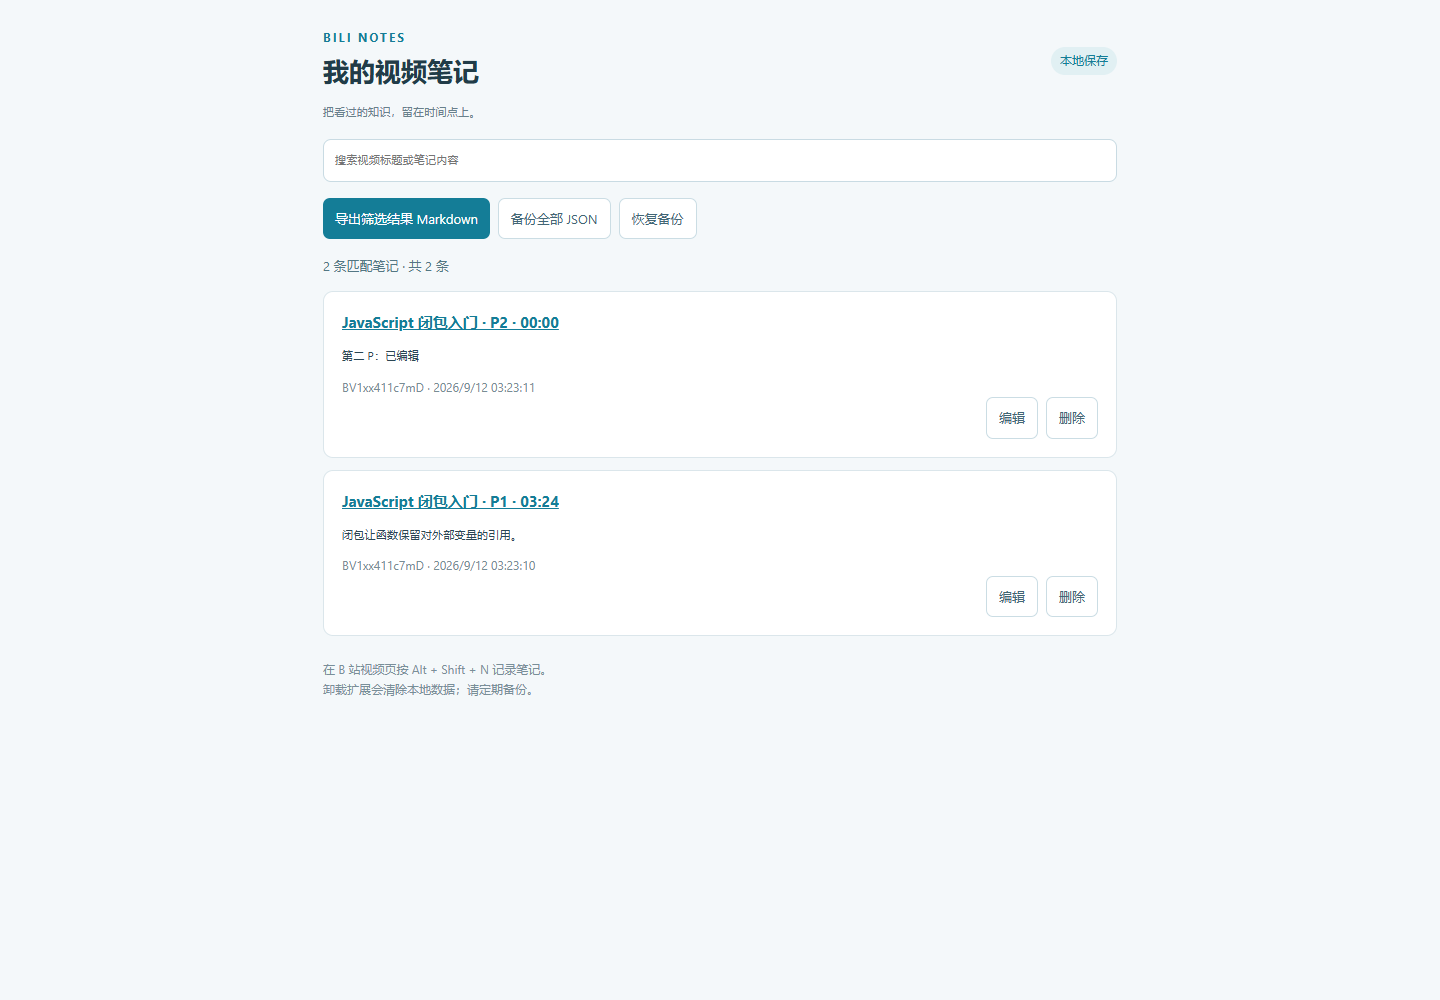
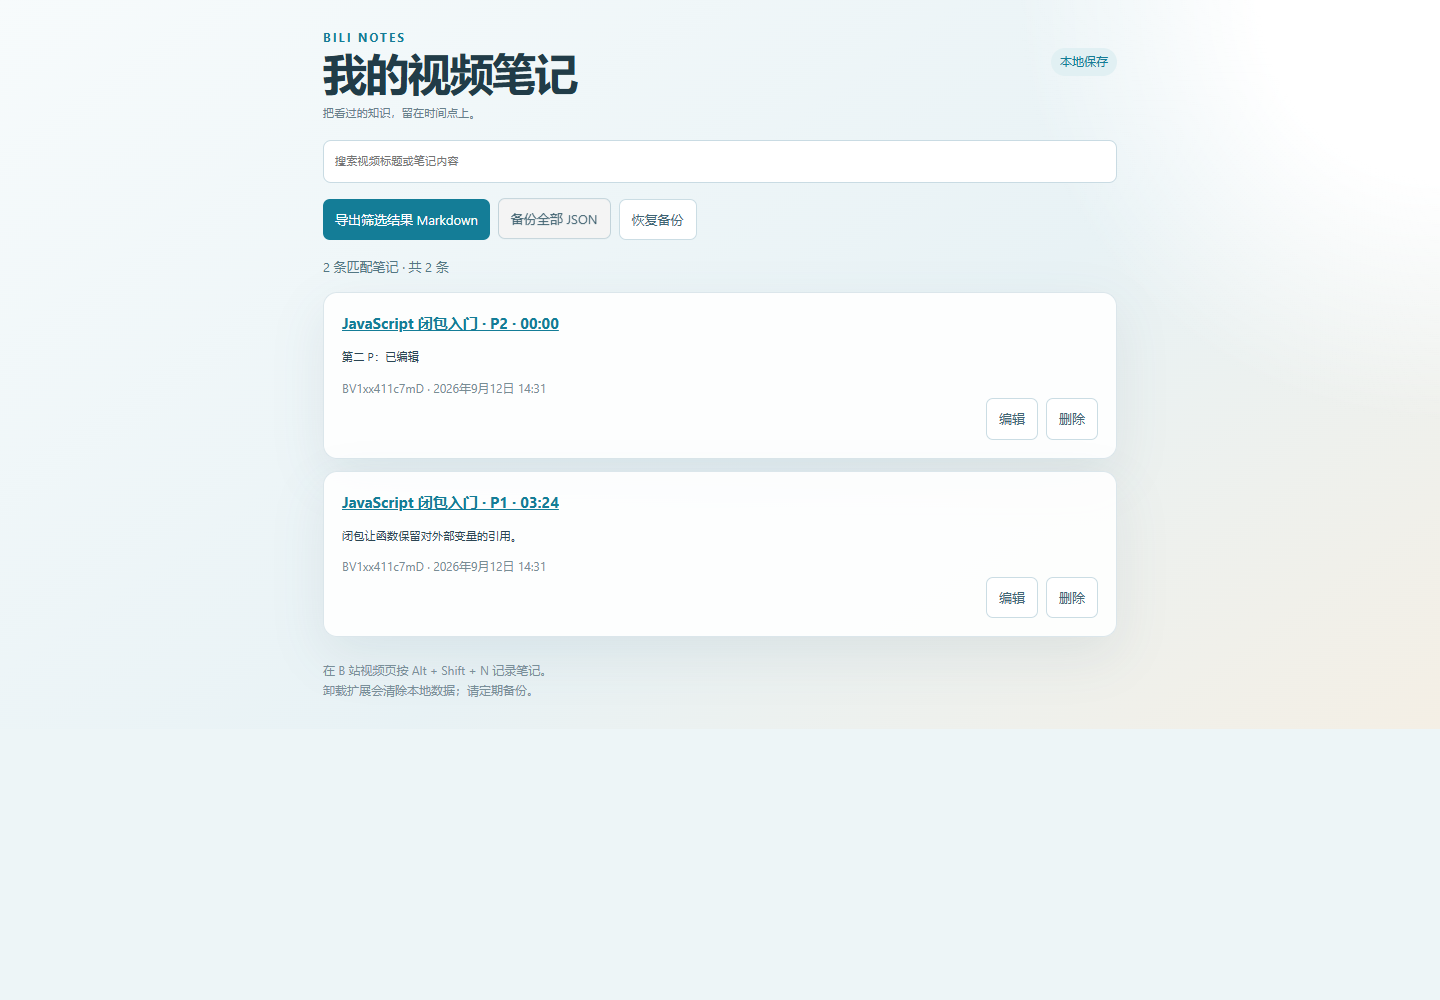
Release v0.3.0 polish performance and docs

diff --git a/content.js b/content.js
@@ -7,7 +7,7 @@
     "position:fixed;right:20px;bottom:24px;z-index:2147483646;";
   const shadow = host.attachShadow({ mode: "open" });
   shadow.innerHTML = `<style>
-  :host{font:14px/1.6 "Segoe UI","Microsoft YaHei",sans-serif;color:#203b46}*{box-sizing:border-box}button,textarea{font:inherit}button{cursor:pointer;border:0;border-radius:8px;padding:9px 13px;background:#147d97;color:white}button:focus-visible,textarea:focus-visible{outline:3px solid #e9b543;outline-offset:2px}#toggle{box-shadow:0 5px 25px #0c415633;padding:12px 18px}#panel{width:350px;max-width:calc(100vw - 40px);max-height:75vh;overflow:auto;background:#fff;border:1px solid #d8e5e9;box-shadow:0 10px 45px #152e4133;border-radius:14px;margin-bottom:12px;padding:18px}header{display:flex;align-items:center;justify-content:space-between}h2{font-size:18px;margin:0}#close,.delete{background:#eef3f4;color:#45626d}#video-title{color:#617c87;overflow-wrap:anywhere;margin:10px 0;font-size:13px}label{display:block;font-size:13px;color:#41616c}textarea{display:block;width:100%;border:1px solid #bcd1d8;border-radius:8px;min-height:85px;resize:vertical;margin:7px 0;padding:10px;color:#203b46}#stamp{font-size:12px;color:#5c737b;margin:7px 0;overflow-wrap:anywhere}.bar{display:flex;gap:8px;justify-content:space-between}#capture,#export{background:#eef5f6;color:#286072}#status{font-size:12px;min-height:20px;margin:8px 0;color:#526e77}ul{list-style:none;padding:0;margin:8px 0}li{border-top:1px solid #e4edef;padding:12px 0}li p{white-space:pre-wrap;overflow-wrap:anywhere;margin:7px 0}li .row{display:flex;align-items:center;justify-content:space-between}.seek{padding:3px 8px;color:#147d97;background:#e8f4f6;font-weight:700}.delete{font-size:12px;padding:3px 8px}.empty{color:#72848a;font-size:13px}#export{width:100%}[hidden]{display:none!important}
+  :host{font:14px/1.6 Aptos,"Segoe UI Variable","Segoe UI","Microsoft YaHei",sans-serif;color:#203b46}*{box-sizing:border-box}button,textarea{font:inherit}button{cursor:pointer;border:0;border-radius:8px;padding:9px 13px;background:#147d97;color:white;transition:transform 160ms ease,filter 160ms ease,background 160ms ease}button:hover{filter:brightness(.96);transform:translateY(-1px)}button:active{transform:translateY(0)}button:disabled{opacity:.5;cursor:not-allowed;transform:none}button:focus-visible,textarea:focus-visible{outline:3px solid #e9b543;outline-offset:2px}#toggle{box-shadow:0 12px 34px #0c415640;padding:12px 18px;font-weight:700}#panel{width:360px;max-width:calc(100vw - 40px);max-height:75vh;overflow:auto;background:linear-gradient(145deg,#ffffff,#f4fafb);border:1px solid #d8e5e9;box-shadow:0 20px 70px #152e4140;border-radius:16px;margin-bottom:12px;padding:18px}header{display:flex;align-items:center;justify-content:space-between}h2{font-size:18px;margin:0;letter-spacing:-.02em}#close,.delete{background:#eef3f4;color:#45626d}#video-title{color:#617c87;overflow-wrap:anywhere;margin:10px 0;font-size:13px}label{display:block;font-size:13px;color:#41616c}textarea{display:block;width:100%;border:1px solid #bcd1d8;border-radius:10px;min-height:92px;resize:vertical;margin:7px 0;padding:10px;color:#203b46;background:white}#stamp{font-size:12px;color:#5c737b;margin:7px 0;overflow-wrap:anywhere}.bar{display:flex;gap:8px;justify-content:space-between}#capture,#export{background:#eef5f6;color:#286072}#status{font-size:12px;min-height:20px;margin:8px 0;color:#526e77}ul{list-style:none;padding:0;margin:8px 0}li{border-top:1px solid #e4edef;padding:12px 0}li p{white-space:pre-wrap;overflow-wrap:anywhere;margin:7px 0}li .row{display:flex;align-items:center;justify-content:space-between}.seek{padding:3px 8px;color:#147d97;background:#e8f4f6;font-weight:700}.delete{font-size:12px;padding:3px 8px}.empty{color:#72848a;font-size:13px}#export{width:100%}[hidden]{display:none!important}
   </style><section id="panel" aria-label="视频笔记" hidden><header><h2>Bili Notes</h2><button id="close" aria-label="关闭笔记面板">×</button></header><div id="video-title"></div><label for="text">记下这个时间点的想法</label><textarea id="text" maxlength="10000" placeholder="例如：这个概念需要再练习一次…"></textarea><div id="stamp"></div><div class="bar"><button id="capture">重取当前时间</button><button id="save">保存笔记</button></div><div id="status" role="status" aria-live="polite"></div><ul id="notes"></ul><button id="export">导出本视频 Markdown ↓</button></section><button id="toggle" aria-expanded="false">✎ 视频笔记</button>`;
   document.documentElement.append(host);
   const $ = (id) => shadow.getElementById(id);

diff --git a/library.css b/library.css
@@ -1,10 +1,12 @@
 :root {
   font:
-    15px/1.65 "Segoe UI",
+    15px/1.65 Aptos,
+    "Segoe UI Variable",
+    "Segoe UI",
     "Microsoft YaHei",
     sans-serif;
   color: #213c48;
-  background: #f4f8fa;
+  background: #edf5f7;
 }
 * {
   box-sizing: border-box;
@@ -12,6 +14,9 @@
 body {
   margin: 0;
   min-width: 370px;
+  background:
+    radial-gradient(circle at top right, #ffffff 0 12rem, transparent 28rem),
+    linear-gradient(145deg, #f7fbfc, #e8f2f5 58%, #f4efe5);
 }
 main {
   max-width: 850px;
@@ -25,7 +30,10 @@ header {
 }
 h1 {
   margin: 2px 0;
-  font-size: 26px;
+  font-size: clamp(28px, 6vw, 44px);
+  letter-spacing: -0.04em;
+  line-height: 1;
+  text-wrap: balance;
 }
 .eyebrow {
   letter-spacing: 2px;
@@ -73,6 +81,20 @@ button,
   color: white;
   padding: 9px 12px;
   cursor: pointer;
+  transition:
+    transform 180ms ease,
+    background 180ms ease,
+    border-color 180ms ease,
+    filter 180ms ease;
+}
+button:hover,
+.button:hover {
+  filter: brightness(0.95);
+  transform: translateY(-1px);
+}
+button:active,
+.button:active {
+  transform: translateY(0);
 }
 .secondary {
   background: white;
@@ -95,11 +117,21 @@ button:disabled {
   min-height: 24px;
 }
 .note {
-  background: white;
+  background: rgba(255, 255, 255, 0.9);
   border: 1px solid #dbe6eb;
-  border-radius: 10px;
+  border-radius: 14px;
   margin: 12px 0;
   padding: 18px;
+  box-shadow: 0 18px 50px #2d536017;
+  transition:
+    transform 180ms ease,
+    border-color 180ms ease,
+    box-shadow 180ms ease;
+}
+.note:hover {
+  border-color: #bfd5dc;
+  box-shadow: 0 20px 60px #2d536022;
+  transform: translateY(-1px);
 }
 .note h2 {
   font-size: 15px;

diff --git a/library.js b/library.js
@@ -2,6 +2,11 @@ const $ = (id) => document.getElementById(id);
 let notes = [];
 let generation = 0;
 let editingId = null;
+let searchTimer;
+const dateFormatter = new Intl.DateTimeFormat(undefined, {
+  dateStyle: "medium",
+  timeStyle: "short",
+});
 const status = (text) => {
   $("status").textContent = text;
 };
@@ -65,6 +70,7 @@ function render() {
       : "还没有笔记。打开一个 B 站视频，点击右下角「视频笔记」开始。";
     $("list").append(p);
   }
+  const fragment = document.createDocumentFragment();
   for (const note of values) {
     const card = document.createElement("article");
     card.className = "note";
@@ -82,7 +88,7 @@ function render() {
     h.append(a);
     text.textContent = note.text;
     meta.className = "meta";
-    meta.textContent = `${note.videoId} · ${new Date(note.updatedAt).toLocaleString()}`;
+    meta.textContent = `${note.videoId} · ${dateFormatter.format(note.updatedAt)}`;
     edit.textContent = "编辑";
     edit.className = "secondary";
     del.textContent = "删除";
@@ -141,10 +147,14 @@ function render() {
     };
     buttons.append(edit, del);
     card.append(h, text, meta, buttons);
-    $("list").append(card);
+    fragment.append(card);
   }
+  $("list").append(fragment);
 }
-$("search").oninput = render;
+$("search").oninput = () => {
+  clearTimeout(searchTimer);
+  searchTimer = setTimeout(render, 80);
+};
 $("markdown").onclick = () =>
   download(
     BiliNotes.toMarkdown(filtered()),

diff --git a/README.md b/README.md
@@ -2,83 +2,92 @@
 
 [![CI](https://github.com/AK1116q/bili-notes/actions/workflows/ci.yml/badge.svg)](https://github.com/AK1116q/bili-notes/actions/workflows/ci.yml)
 
-**边看视频边记笔记，把想法留在准确的时间点。**
+**Take timestamped notes while watching Bilibili videos.**
 
-A local-first browser extension for timestamped Bilibili video notes. No platform API credentials, no cloud account, no runtime dependencies.
+Bili Notes is a local-first browser extension for timestamped Bilibili video notes. It does not need platform API credentials, a cloud account, or runtime dependencies.
 
-![插件在离线视频夹具中的演示](docs/screenshot.png)
+![Bili Notes demo in an offline fixture](docs/screenshot.png)
 
-> 演示截图使用离线测试页面，不是 B 站实际页面。
+The screenshot uses an offline Bilibili-shaped test page, not the live Bilibili website.
 
-## 功能
+## Features
 
-- 视频页右下角打开笔记面板，记录当前播放时间和笔记内容。
-- 点击笔记时间点回看；保留播放器原来的播放/暂停状态。
-- 按视频与分 P 分别保存，支持页面内切换分 P。
-- 笔记库支持搜索、编辑、删除，以及带时间链接的 Markdown 导出。
-- 编辑已有笔记时会保护草稿，并阻止旧页面覆盖较新的同一条笔记。
-- JSON 全量备份与恢复；相同 ID 优先保留更新时间较新的版本。
-- 数据只存放于当前浏览器的 `chrome.storage.local`。
+- Opens a small notes panel on regular Bilibili video pages.
+- Captures the current video time, page part, title, and note text.
+- Lets you jump back to saved timestamps from the page panel.
+- Stores notes separately by video ID and part number.
+- Provides a notes library with search, edit, delete, Markdown export, JSON backup, and JSON restore.
+- Protects in-progress edits from background refreshes.
+- Prevents stale library pages from overwriting newer edits of the same note.
+- Stores data only in the current browser profile through `chrome.storage.local`.
 
-## 安装
+## Install
 
-1. 下载或克隆本仓库，解压到一个长期保留的目录。
-2. Chrome 打开 `chrome://extensions`；Edge 打开 `edge://extensions`。
-3. 打开 **开发者模式**，选择 **加载已解压的扩展程序**。
-4. 选择包含 `manifest.json` 的 `bili-notes` 目录。
-5. 刷新已打开的 B 站普通视频页面，点击右下角 **视频笔记**。
+1. Download or clone this repository and keep the folder somewhere permanent.
+2. Open `chrome://extensions` in Chrome or `edge://extensions` in Edge.
+3. Enable **Developer mode**.
+4. Choose **Load unpacked**.
+5. Select the folder that contains `manifest.json`.
+6. Refresh an open Bilibili video page and click **Video Notes / 视频笔记** in the lower-right corner.
 
-安装不需要 Node.js。此版本未上架扩展商店。
+Node.js is not required for installation. This version is not published in browser extension stores.
 
-## 使用
+## Usage
 
-- `Alt + Shift + N`：打开面板，并聚焦输入框。部分系统可能占用该组合键，可直接点击按钮。
-- 打开面板时取得当前时间；点击 **重取当前时间** 更新记录位置。
-- `Ctrl + Enter` / `Command + Enter`：在输入框中保存笔记。
-- 点击扩展工具栏图标：打开笔记库。通过扩展详情中的选项页可使用完整页面。
-- **导出筛选结果 Markdown** 只导出当前搜索匹配项；**备份全部 JSON** 保存全部笔记。
+- Press `Alt + Shift + N` to open the panel and focus the note box. Some systems may reserve this shortcut; the floating button still works.
+- Opening the panel captures the current timestamp. Use the recapture button if you want to update the saved time before writing.
+- Press `Ctrl + Enter` or `Command + Enter` inside the text area to save.
+- Click a saved timestamp to seek the current video element.
+- Click the extension toolbar icon to open the notes library.
+- Export Markdown for the current search results, or back up all notes as JSON.
 
-切换分 P 时，已经输入的草稿保留原视频和时间点；面板会给出提示。备注输入上方显示记录所关联的视频，保存前可以重新取时间。
+If you switch parts while a draft is open, the draft is preserved with its original captured timestamp. Recapture before saving if you want the note to point at the new part.
 
-## 权限与隐私
+## Permissions and Privacy
 
-只申请 `storage` 权限，并仅在 `https://www.bilibili.com/video/*` 注入内容脚本。通过页面现有的 HTML 视频元素读取时间，不使用 B 站 Cookie、登录令牌、私有接口或额外网络请求。
+The extension requests only the `storage` permission and injects content scripts only on `https://www.bilibili.com/video/*`. It reads the current time from the existing HTML video element. It does not use Bilibili cookies, login tokens, private APIs, or extra network requests.
 
-笔记包括视频 ID、分 P、时间、标题、正文和创建/修改时间。本地存储并非加密保险箱。卸载扩展会清除数据；请先导出 JSON 备份。恢复功能最多接受 10 MB / 5,000 条笔记。
+Stored notes include video ID, part number, timestamp, title, note text, and created/updated times. Browser local storage is not encrypted secure storage. Uninstalling the extension removes local data, so export a JSON backup first if you want to keep your notes.
 
-## 支持范围与限制
+## Supported Pages and Limits
 
-- 第一版面向 Chrome/Edge Manifest V3 桌面浏览器；自动化集成测试使用 Edge。
-- 支持普通 `/video/BV…` 和 `/video/av…` 页面；不支持直播、番剧 `/bangumi/`、手机 App 或跨站 iframe 播放器。
-- BV 和 av 两种地址按不同标识保存，不调用 API 合并别名。
-- 分 P 按 URL 中的 `p` 参数区分；依赖网站继续提供这些页面结构。
-- 导出的时间链接包含 `p` 和 `t`；目标站点是否采纳跳转参数取决于其当前实现。当前页内点击时间直接设置播放器位置。
-- 无跨设备同步。时间取整到秒，每条笔记最多 10,000 字符。
-- 并发编辑同一笔记会按更新时间检查；检测到较新版本或已删除记录时需要刷新后再保存。
-- 网站播放器结构变化可能需要调整选择器；尚未完成登录后的真实 B 站页面人工验收。
+- Built for desktop Chrome and Edge Manifest V3.
+- Supports regular `/video/BV...` and `/video/av...` pages.
+- Does not support livestreams, `/bangumi/` pages, mobile apps, or cross-site iframe players.
+- BV and av URLs are stored as different identifiers; the extension does not call APIs to merge aliases.
+- Part numbers come from the `p` URL parameter.
+- Timestamp links include `p` and `t`; whether Bilibili honors them depends on the current website behavior.
+- Notes are rounded to whole seconds and limited to 10,000 characters each.
+- Restore accepts backups up to 10 MB and 5,000 notes.
+- Live Bilibili page variants can change, so selectors may need maintenance.
 
-## 开发
+## Development
 
-Node.js 22+，无需安装依赖：
+Requires Node.js 22 or newer. No install step is needed.
 
 ```bash
 npm test
 ```
 
-修改后在浏览器扩展管理页点击重新加载，并刷新视频页。
+After editing the extension, reload it in the browser extensions page and refresh any open video pages.
 
-结构：`core.js` 负责校验、视频标识和 Markdown；`background.js` 串行处理存储消息；`content.js` 提供隔离样式的页面面板；`library.*` 是笔记库。
+Project structure:
 
-实现参考 Chrome 官方 [内容脚本文档](https://developer.chrome.com/docs/extensions/develop/concepts/content-scripts) 与 [Storage API](https://developer.chrome.com/docs/extensions/reference/api/storage)。
+- `core.js` validates notes, parses video URLs, formats timestamps, and exports Markdown.
+- `background.js` serializes storage messages.
+- `content.js` renders the isolated video-page panel.
+- `library.*` renders the notes library.
 
-查看 [验证记录](docs/VALIDATION.md) 与 [贡献说明](CONTRIBUTING.md)。
+The implementation follows Chrome extension concepts for [content scripts](https://developer.chrome.com/docs/extensions/develop/concepts/content-scripts) and the [Storage API](https://developer.chrome.com/docs/extensions/reference/api/storage).
 
-## 后续方向
+See [validation notes](docs/VALIDATION.md) and [contributing notes](CONTRIBUTING.md).
 
-- 给笔记添加标签，按课程组织。
-- 提供可选择的快捷键配置。
-- 在笔记库中显示冲突详情，辅助合并两份正文。
-- 为更多视频页面增加独立适配器。
+## Roadmap
+
+- Add tags and course-style organization.
+- Add configurable shortcuts.
+- Show conflict details in the notes library so two edited texts can be merged.
+- Add adapters for more Bilibili page types.
 
 ## License
 

diff --git a/docs/VALIDATION.md b/docs/VALIDATION.md
@@ -1,10 +1,10 @@
-# v0.2.0 验证记录
+# v0.3.0 验证记录
 
 日期：2026-09-12。环境：Windows、Node.js 24.11.0；浏览器测试通过 Playwright 驱动本机浏览器。
 
 - 8 项 Node 测试通过：视频/分 P 标识、时间格式、笔记校验、Markdown、并发独立存储、失败导入不产生部分写入、恢复与删除、旧编辑冲突保护。
 - Edge 独立浏览器配置中实际加载 Manifest V3 扩展，验证真实 service worker、content script 与 chrome.storage.local。
-- 在拦截为离线夹具的 B 站格式 URL 中完成：保存笔记、点击时间回看、页面刷新后保留、SPA 分 P 切换、笔记库编辑与搜索、Markdown 下载、JSON 备份、删除、恢复及无效备份拒绝。
+- 在拦截为离线夹具的 B 站格式 URL 中完成：保存笔记、点击时间回看、页面刷新后保留、SPA 分 P 切换、笔记库编辑与搜索、Markdown 下载、JSON 备份、删除、恢复及无效备份拒绝；截图已覆盖新版界面。
 - 播放器是 HTML video 元素，测试媒体为本地生成的静音 WAV；没有使用用户账号或真实 B 站接口。
 - 笔记库与视频面板没有捕获到未处理的 JavaScript 运行错误。
 

diff --git a/CHANGELOG.md b/CHANGELOG.md
@@ -1,5 +1,11 @@
 # Changelog
 
+## 0.3.0 — 2026-09-12
+
+- Reworked README in English for a wider GitHub audience.
+- Improved notes library rendering with debounced search, batched DOM insertion, and shared date formatting.
+- Refined the library and video panel styling with clearer depth, hover states, and more polished controls.
+
 ## 0.2.0 — 2026-09-12
 
 - 笔记库编辑时保留草稿，不会被后台同步刷新掉。
